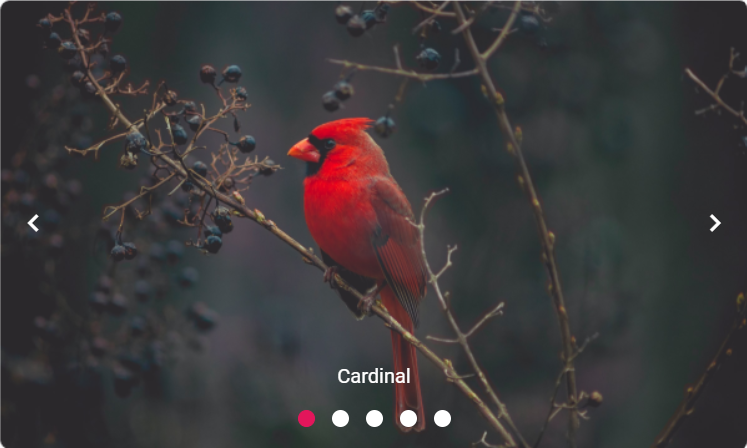
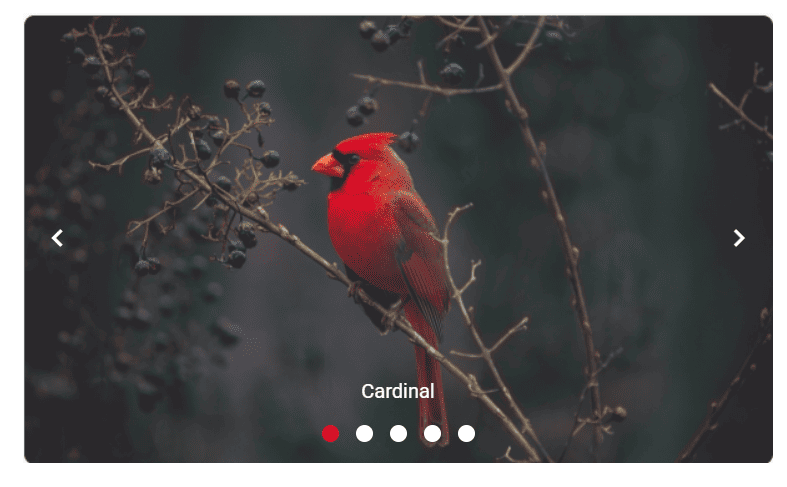
1034710: Front matter and image size error solved

diff --git a/ej2-vue/carousel/getting-started-vue-3.md b/ej2-vue/carousel/getting-started-vue-3.md
@@ -8,7 +8,7 @@ documentation: ug
 domainurl: ##DomainURL##
 ---
 
-# Getting Started with Syncfusion<sup style="font-size:70%">&reg;</sup> Vue Carousel Component in Vue 3
+# Getting Started with Syncfusion Vue Carousel Component in Vue 3
 
 This article provides a step-by-step guide for setting up a [Vite](https://vitejs.dev/) project with a JavaScript environment and integrating the Syncfusion<sup style="font-size:70%">&reg;</sup> Vue Carousel component using the [Composition API](https://vuejs.org/guide/introduction.html#composition-api) / [Options API](https://vuejs.org/guide/introduction.html#options-api).
 
@@ -22,7 +22,7 @@ The `Options API` is the traditional way of writing Vue.js components, where the
 
 ## Setup the Vite project
 
-A recommended approach for beginning with Vue is to scaffold a project using [Vite](https://vitejs.dev/). To create a new Vite project, use one of the commands that are specific to either NPM or Yarn.
+A recommended approach for beginning with Vue is to scaffold a project using [Vite](https://vitejs.dev). To create a new Vite project, use one of the commands that are specific to either NPM or Yarn.
 
 ```bash
 npm create vite@latest
@@ -99,7 +99,7 @@ yarn add @syncfusion/ej2-vue-navigations
 
 ## Import Syncfusion<sup style="font-size:70%">&reg;</sup> CSS styles
 
-You can import themes for the Syncfusion<sup style="font-size:70%">&reg;</sup> Vue component in various ways, such as using CSS or SASS styles from npm packages, CDN, [CRG](https://ej2.syncfusion.com/javascript/documentation/common/custom-resource-generator/) and [Theme Studio](https://ej2.syncfusion.com/vue/documentation/appearance/theme-studio/). Refer to [themes topic](https://ej2.syncfusion.com/vue/documentation/appearance/theme/) to know more about built-in themes and different ways to refer to themes in a Vue project.
+You can import themes for the Syncfusion<sup style="font-size:70%">&reg;</sup> Vue component in various ways, such as using CSS or SASS styles from npm packages, CDN, [CRG](https://ej2.syncfusion.com/javascript/documentation/common/custom-resource-generator) and [Theme Studio](https://ej2.syncfusion.com/vue/documentation/appearance/theme-studio). Refer to [themes topic](https://ej2.syncfusion.com/vue/documentation/appearance/theme) to know more about built-in themes and different ways to refer to themes in a Vue project.
 
 In this article, `Material` theme is applied using CSS styles, which are available in installed packages. The necessary `Material` CSS styles for the Carousel component and its dependents were imported into the `<style>` section of the **src/App.vue** file.
 

diff --git a/ej2-vue/appbar/getting-started.md b/ej2-vue/appbar/getting-started.md
@@ -14,7 +14,7 @@ This article provides a step-by-step guide to set up a Vue 2 project using [Vue-
 
 ## Prerequisites
 
-[System requirements for Syncfusion<sup style="font-size:70%">&reg;</sup> Vue UI components](https://ej2.syncfusion.com/vue/documentation/system-requirements/)
+[System requirements for Syncfusion<sup style="font-size:70%">&reg;</sup> Vue UI components](https://ej2.syncfusion.com/vue/documentation/system-requirements)
 
 ## Dependencies
 
@@ -81,7 +81,7 @@ yarn add @syncfusion/ej2-vue-buttons
 
 ## Import Syncfusion<sup style="font-size:70%">&reg;</sup> CSS styles
 
-You can import themes for the Syncfusion<sup style="font-size:70%">&reg;</sup> Vue component in various ways, such as using CSS or SASS styles from npm packages, CDN, [CRG](https://ej2.syncfusion.com/javascript/documentation/common/custom-resource-generator/) and [Theme Studio](https://ej2.syncfusion.com/vue/documentation/appearance/theme-studio/). Refer to [themes topic](https://ej2.syncfusion.com/vue/documentation/appearance/theme/) to know more about built-in themes and different ways to refer to themes in a Vue project.
+You can import themes for the Syncfusion<sup style="font-size:70%">&reg;</sup> Vue component in various ways, such as using CSS or SASS styles from npm packages, CDN, [CRG](https://ej2.syncfusion.com/javascript/documentation/common/custom-resource-generator) and [Theme Studio](https://ej2.syncfusion.com/vue/documentation/appearance/theme-studio). Refer to [themes topic](https://ej2.syncfusion.com/vue/documentation/appearance/theme) to know more about built-in themes and different ways to refer to themes in a Vue project.
 
 In this article, the `Material` theme is applied using CSS styles, which are available in installed packages. The necessary `Material` CSS styles for the AppBar component and its dependencies are imported into the `<style>` section of the **src/App.vue** file.
 

diff --git a/ej2-vue/breadcrumb/vue-3-getting-started.md b/ej2-vue/breadcrumb/vue-3-getting-started.md
@@ -18,7 +18,7 @@ The `Options API` is the traditional way of writing Vue.js components, where the
 
 ## Prerequisites
 
-[System requirements for Syncfusion<sup style="font-size:70%">&reg;</sup> Vue UI components](https://ej2.syncfusion.com/vue/documentation/system-requirements/)
+[System requirements for Syncfusion<sup style="font-size:70%">&reg;</sup> Vue UI components](https://ej2.syncfusion.com/vue/documentation/system-requirements)
 
 ## Set up the Vite project
 
@@ -99,7 +99,7 @@ yarn add @syncfusion/ej2-vue-navigations
 
 ## Import Syncfusion<sup style="font-size:70%">&reg;</sup> CSS styles
 
-You can import themes for the Syncfusion<sup style="font-size:70%">&reg;</sup> Vue component in various ways, such as using CSS or SASS styles from npm packages, CDN, [CRG](https://ej2.syncfusion.com/javascript/documentation/common/custom-resource-generator/) and [Theme Studio](https://ej2.syncfusion.com/vue/documentation/appearance/theme-studio/). Refer to [themes topic](https://ej2.syncfusion.com/vue/documentation/appearance/theme/) to know more about built-in themes and different ways to refer to themes in a Vue project.
+You can import themes for the Syncfusion<sup style="font-size:70%">&reg;</sup> Vue component in various ways, such as using CSS or SASS styles from npm packages, CDN, [CRG](https://ej2.syncfusion.com/javascript/documentation/common/custom-resource-generator) and [Theme Studio](https://ej2.syncfusion.com/vue/documentation/appearance/theme-studio). Refer to [themes topic](https://ej2.syncfusion.com/vue/documentation/appearance/theme) to know more about built-in themes and different ways to refer to themes in a Vue project.
 
 In this article, `Material` theme is applied using CSS styles, which are available in installed packages. The necessary `Material` CSS styles for the Breadcrumb component and its dependencies were imported into the `<style>` section of **src/App.vue** file.
 

diff --git a/ej2-vue/carousel/getting-started.md b/ej2-vue/carousel/getting-started.md
@@ -18,7 +18,7 @@ To get started quickly with the Vue Carousel, you can check on this video:
 
 ## Prerequisites
 
-[System requirements for Syncfusion<sup style="font-size:70%">&reg;</sup> Vue UI components](https://ej2.syncfusion.com/vue/documentation/system-requirements/)
+[System requirements for Syncfusion<sup style="font-size:70%">&reg;</sup> Vue UI components](https://ej2.syncfusion.com/vue/documentation/system-requirements)
 
 ## Dependencies
 
@@ -76,7 +76,7 @@ yarn add @syncfusion/ej2-vue-navigations
 
 ## Import Syncfusion<sup style="font-size:70%">&reg;</sup> CSS styles
 
-You can import themes for the Syncfusion<sup style="font-size:70%">&reg;</sup> Vue component in various ways, such as using CSS or SASS styles from npm packages, CDN, [CRG](https://ej2.syncfusion.com/javascript/documentation/common/custom-resource-generator/) and [Theme Studio](https://ej2.syncfusion.com/vue/documentation/appearance/theme-studio/). Refer to [themes topic](https://ej2.syncfusion.com/vue/documentation/appearance/theme/) to know more about built-in themes and different ways to refer to themes in a Vue project.
+You can import themes for the Syncfusion<sup style="font-size:70%">&reg;</sup> Vue component in various ways, such as using CSS or SASS styles from npm packages, CDN, [CRG](https://ej2.syncfusion.com/javascript/documentation/common/custom-resource-generator) and [Theme Studio](https://ej2.syncfusion.com/vue/documentation/appearance/theme-studio). Refer to [themes topic](https://ej2.syncfusion.com/vue/documentation/appearance/theme) to know more about built-in themes and different ways to refer to themes in a Vue project.
 
 In this article, `Material` theme is applied using CSS styles, which are available in installed packages. The necessary `Material` CSS styles for the Carousel component and its dependencies were imported into the `<style>` section of the **src/App.vue** file.
 

diff --git a/ej2-vue/accordion/getting-started-vue-3.md b/ej2-vue/accordion/getting-started-vue-3.md
@@ -99,7 +99,7 @@ yarn add @syncfusion/ej2-vue-navigations
 
 ## Import Syncfusion<sup style="font-size:70%">&reg;</sup> CSS styles
 
-You can import themes for the Syncfusion<sup style="font-size:70%">&reg;</sup> Vue component in various ways, such as using CSS or SASS styles from npm packages, CDN, [CRG](https://crg.syncfusion.com/) and [Theme Studio](https://ej2.syncfusion.com/vue/documentation/appearance/theme-studio). Refer to [themes topic](https://ej2.syncfusion.com/vue/documentation/appearance/theme) to know more about built-in themes and different ways to refer to themes in a Vue project.
+You can import themes for the Syncfusion<sup style="font-size:70%">&reg;</sup> Vue component in various ways, such as using CSS or SASS styles from npm packages, CDN, [CRG](https://crg.syncfusion.com) and [Theme Studio](https://ej2.syncfusion.com/vue/documentation/appearance/theme-studio). Refer to [themes topic](https://ej2.syncfusion.com/vue/documentation/appearance/theme) to know more about built-in themes and different ways to refer to themes in a Vue project.
 
 In this article, `Material` theme is applied using CSS styles, which are available in installed packages. The necessary `Material` CSS styles for the Accordion component and its dependencies were imported into the `<style>` section of the **src/App.vue** file.
 

diff --git a/ej2-vue/accordion/getting-started.md b/ej2-vue/accordion/getting-started.md
@@ -108,7 +108,7 @@ import {
 </script>
 
 {% endhighlight %}
-{% highlight html tabtile="Options API (~/src/App.vue)" %}
+{% highlight html tabtitle="Options API (~/src/App.vue)" %}
 
 <script>
 import { AccordionComponent, AccordionItemDirective, AccordionItemsDirective } from '@syncfusion/ej2-vue-navigations';